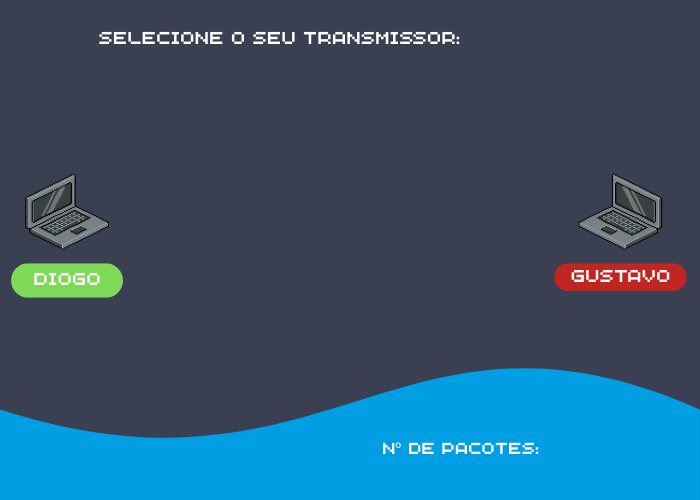
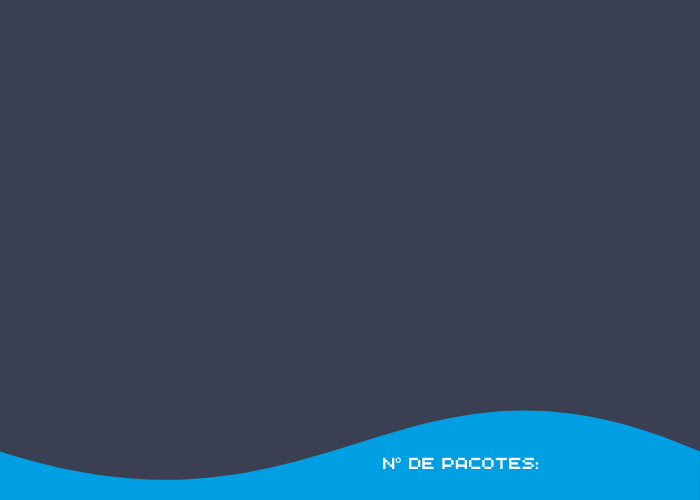
Carregando backbone

diff --git a/redes2_trabalho01_202411226/controller/TelaPrincipalController.java b/redes2_trabalho01_202411226/controller/TelaPrincipalController.java
@@ -61,8 +61,6 @@ public class TelaPrincipalController implements Initializable {
   public static volatile TelaPrincipalController controller;
 	private Host diogo;
 	private Host gustavo;
-  private Host hostTransmissor;
-  private Host hostReceptor;
   private int quantidadeNos;
 	private int versao;
 	private int numPacotes;
@@ -73,9 +71,8 @@ public class TelaPrincipalController implements Initializable {
   private ArrayList<Roteador> roteadores;
   private HashMap<String, Circle> nosCriados = new HashMap<>();
   private Set<String> arestasExistentes = new HashSet<>();
-  private final Map<String, double[]> posicaoCirculos = new HashMap<>();
-  private final Map<String, double[]> posicaoLabels = new HashMap<>();
-  private final Map<String, double[]> posicaoRoteadores = new HashMap<>();
+  private Map<String, double[]> posicaoCirculos = new HashMap<>();
+  private HashMap<String, Label> labels = new HashMap<>();
 
   /*
    * ***************************************************************
@@ -88,33 +85,6 @@ public class TelaPrincipalController implements Initializable {
 
 	@Override
 	public void initialize(URL url, ResourceBundle rb) {
-    // Preenchendo PosicaoCirculos
-    posicaoCirculos.put("A", new double[]{60.0, 126.0});
-    posicaoCirculos.put("B", new double[]{133.0, 52.0});
-    posicaoCirculos.put("C", new double[]{133.0, 189.0});
-    posicaoCirculos.put("D", new double[]{237.0, 126.0});
-    posicaoCirculos.put("E", new double[]{330.0, 52.0});
-    posicaoCirculos.put("F", new double[]{330.0, 189.0});
-    posicaoCirculos.put("G", new double[]{400.0, 126.0});
-
-    // Preenchendo PosicaoLabels
-    posicaoLabels.put("A", new double[]{54.0, 142.0});
-    posicaoLabels.put("B", new double[]{127.0, 20.0});
-    posicaoLabels.put("C", new double[]{127.0, 206.0});
-    posicaoLabels.put("D", new double[]{233.0, 96.0});
-    posicaoLabels.put("E", new double[]{324.0, 20.0});
-    posicaoLabels.put("F", new double[]{326.0, 206.0});
-    posicaoLabels.put("G", new double[]{395.0, 145.0});
-
-    // Preenchendo PosicaoRoteadores
-    posicaoRoteadores.put("A", new double[]{40.0, 105.0});
-    posicaoRoteadores.put("B", new double[]{113.0, 32.0});
-    posicaoRoteadores.put("C", new double[]{114.0, 168.0});
-    posicaoRoteadores.put("D", new double[]{217.0, 105.0});
-    posicaoRoteadores.put("E", new double[]{310.0, 32.0});
-    posicaoRoteadores.put("F", new double[]{310.0, 168.0});
-    posicaoRoteadores.put("G", new double[]{380.0, 105.0});
-
 		// Metodo que altera a cor do texto da comboBox
     cbTransmissor.setButtonCell(new ListCell<String>() {
       @Override
@@ -158,6 +128,7 @@ public class TelaPrincipalController implements Initializable {
     ObservableList<String> hosts = FXCollections.observableArrayList("Diogo", "Gustavo");
     cbTransmissor.setItems(hosts);
     cbTransmissor.getSelectionModel().selectFirst();
+    
     definirTransmissor(new ActionEvent());
 	}
 
@@ -214,7 +185,7 @@ public class TelaPrincipalController implements Initializable {
     if (pacotes.size() != 0) reiniciar();
 
     // Inicia a geracao de pacotes
-    gerarPacoteInicial((transmissor == 0) ? rotDiogo : rotGustavo);
+    // if (quantidadeNos != 0) gerarPacoteInicial((transmissor == 0) ? rotDiogo : rotGustavo);
 	} 
 
   private void gerarPacoteInicial(Roteador r) {
@@ -320,22 +291,33 @@ public class TelaPrincipalController implements Initializable {
 
   private void configurarSubrede() {
     try (BufferedReader br = new BufferedReader(new FileReader("backbone.txt"))) {
-      quantidadeNos = Integer.parseInt(br.readLine());
-      String linha;
+      String linha = br.readLine();
+      if (linha == null) return;
+
+      quantidadeNos = Integer.parseInt(linha.trim());
+      calcularPosicaoNos(quantidadeNos);
+      gerarLabels(quantidadeNos);
+
+      for (int i = 0; i < quantidadeNos; i++) {
+        String nome = gerarNome(i);
+        Circle c = criarNo(nome);
+        Roteador r = criarRoteador(c, nome);
+      }
+
+      calcularPosicaoLabels(quantidadeNos);
+      calcularPosicaoRoteadores(quantidadeNos);
 
       while ((linha = br.readLine()) != null) {
         String[] partes = linha.split(",");
+        if (partes.length < 3) continue;
 
-        String no1 = partes[0];
-        String no2 = partes[1];
+        String nome1 = partes[0];
+        String nome2 = partes[1];
         String peso = partes[2];
 
-        Circle c1 = criarNo(no1);
-        Circle c2 = criarNo(no2);
-
-        Roteador r1 = (!verificarRoteador(no1)) ? criarRoteador(c1, no1) : obterRoteador(no1);
-        Roteador r2 = (!verificarRoteador(no2)) ? criarRoteador(c2, no2) : obterRoteador(no2);
-        gerarAresta(r1, r2, peso);
+        Roteador r1 = obterRoteador(nome1);
+        Roteador r2 = obterRoteador(nome2);
+        if (r1 != null && r2 != null) gerarAresta(r1, r2, peso);
       }
     }
     catch (IOException e) {
@@ -343,39 +325,92 @@ public class TelaPrincipalController implements Initializable {
     }
   }
 
+  private void calcularPosicaoNos(int totalNos) {
+    double centroX = subrede.getPrefWidth() / 2;
+    double centroY = subrede.getPrefHeight() / 2;
+    double raio = Math.min(centroX, centroY) - 60;
+
+    for (int i = 0; i < totalNos; i++) {
+      String nome = gerarNome(i);
+
+      double angulo = (2 * Math.PI * i) / totalNos;
+      double x = centroX + raio * Math.cos(angulo);
+      double y = centroY + raio * Math.sin(angulo);
+
+      posicaoCirculos.put(nome, new double[]{x, y});
+    }
+  }
+
+  private String gerarNome(int i) {
+    return String.valueOf((char) ('A' + i));
+  }
+
+  private void calcularPosicaoLabels(int totalNos) {
+    for (int i = 0; i < totalNos; i++) {
+      String nome = gerarNome(i);
+      Roteador r = obterRoteador(nome);
+      Circle c = r.getNo();
+      Label l = labels.get(nome);
+      if (c == null || l == null) continue;
+
+      l.applyCss();
+      l.layout();
+
+      double largura = l.getLayoutBounds().getWidth();
+      double altura = l.getLayoutBounds().getHeight();
+
+      double x = c.getCenterX() - (largura / 2);
+      double y = c.getCenterY() - (altura / 2);
+
+      l.setLayoutX(x);
+      l.setLayoutY(y);
+
+      subrede.getChildren().add(l);
+    }
+  }
+
+  private void calcularPosicaoRoteadores(int totalNos) {
+    double larguraPacote = 41.0;
+    double alturaPacote = 98.0;
+
+    for (int i = 0; i < totalNos; i++) {
+      String nome = gerarNome(i);
+      Roteador r = obterRoteador(nome);
+      Circle c = r.getNo();
+      if (c == null) continue;
+
+      double x = c.getCenterX() - (larguraPacote / 2);
+      double y = c.getCenterY() - (alturaPacote / 2);
+      r.definirPosicao(x, y);
+      atualizarRoteador(r);
+    }
+  }
+
   private Circle criarNo(String nome) {
     if (nosCriados.containsKey(nome)) return nosCriados.get(nome);
 
-    double xCirculo, yCirculo, xLabel, yLabel;
-
-    if (posicaoCirculos.containsKey(nome) && posicaoLabels.containsKey(nome)) {
-      xCirculo = posicaoCirculos.get(nome)[0];
-      yCirculo = posicaoCirculos.get(nome)[1];
-      xLabel = posicaoLabels.get(nome)[0];
-      yLabel = posicaoLabels.get(nome)[1];
-    }
-    else {
-      xCirculo = Math.random() * (subrede.getPrefWidth() - 40) + 20;
-      yCirculo = Math.random() * (subrede.getPrefHeight() - 40) + 20;
-      xLabel = 0;
-      yLabel = 0;
-    }
+    double xCirculo = posicaoCirculos.get(nome)[0];
+    double yCirculo = posicaoCirculos.get(nome)[1];
 
     Circle circulo = new Circle(xCirculo, yCirculo, 15, Color.WHITE); 
     circulo.setStroke(Color.BLACK);
     circulo.setStrokeWidth(1);
     circulo.setStrokeType(StrokeType.OUTSIDE);
 
-    Label label = new Label(nome);
-    label.setTextFill(Color.WHITE);
-    label.setFont(Font.font("VCR OSD Mono", 15));
-    label.setLayoutX(xLabel);
-    label.setLayoutY(yLabel);
-
     nosCriados.put(nome, circulo);
-    subrede.getChildren().addAll(circulo, label);
+    subrede.getChildren().addAll(circulo);
 
     return circulo;
+  }
+
+  private void gerarLabels(int totalNos) {
+    for (int i = 0; i < totalNos; i++) {
+      String nome = gerarNome(i);
+      Label label = new Label(nome);
+      label.setTextFill(Color.web("#2d4180"));
+      label.setFont(Font.font("VCR OSD Mono", 15));
+      labels.put(nome, label);
+    }
   }
 
   private void gerarAresta(Roteador r1, Roteador r2, String peso) {
@@ -388,34 +423,16 @@ public class TelaPrincipalController implements Initializable {
 
       double meioX = (r1.getNo().getCenterX() + r2.getNo().getCenterX()) / 2;
       double meioY = (r1.getNo().getCenterY() + r2.getNo().getCenterY()) / 2;
-        
-      Label labelPeso = new Label(peso);
-      labelPeso.setLayoutX(meioX + 5);
-      labelPeso.setLayoutY(meioY - 10);
-      labelPeso.setFont(Font.font("VCR OSD Mono", 15));
-      labelPeso.setTextFill(Color.WHITE);
 
       arestasExistentes.add(idConexao);
-      subrede.getChildren().addAll(linha, labelPeso);
+      subrede.getChildren().add(linha);
       r1.adicionarVizinho(r2);
       r2.adicionarVizinho(r1);
     } 
   }
 
-  private boolean verificarRoteador(String nome) {
-    for (Roteador r : roteadores) {
-      if (r.getNome().equals(nome)) {
-        return true;
-      }
-    }
-
-    return false;
-  }
-
   private Roteador criarRoteador(Circle no, String nome) {
     Roteador r = new Roteador(no, nome);
-    double[] posicoes = posicaoRoteadores.get(nome);
-    r.definirPosicao(posicoes[0], posicoes[1]);
     roteadores.add(r);
 
     return r;
@@ -429,6 +446,15 @@ public class TelaPrincipalController implements Initializable {
     }
 
     return null;
+  }
+
+  private void atualizarRoteador(Roteador r) {
+    for (int i = 0; i < roteadores.size(); i++) {
+      if (r.getNome().equals(roteadores.get(i).getNome())) {
+        roteadores.set(i, r);
+        break;
+      }
+    }
   }
 
   public void definirTempoDeVida(int tempoDeVida) {

diff --git a/redes2_trabalho01_202411226/model/Roteador.java b/redes2_trabalho01_202411226/model/Roteador.java
@@ -2,7 +2,7 @@
 * Autor............: Diogo Oliveira de Sousa
 * Matricula........: 202411226
 * Inicio...........: 15/03/2026
-* Ultima alteracao.: 19/03/2026
+* Ultima alteracao.: 20/03/2026
 * Nome.............: Roteador
 * Funcao...........: Classe que gerencia as operacoes de cada roteador.
                      
@@ -23,6 +23,7 @@ public class Roteador {
   private boolean ocupado;
   private boolean intermediario;
   private Host hostProximo;
+  private boolean destino;
 
   /*
    * ***************************************************************
@@ -50,10 +51,11 @@ public class Roteador {
   }
 
   public void alterarVizinho(Roteador v) {
-    for (Roteador r : vizinhos) {
+    for (int i = 0; i < vizinhos.size(); i++) {
+      Roteador r = vizinhos.get(i);
+
       if (r.getNome().equals(v.getNome())) {
-        vizinhos.remove(r);
-        vizinhos.add(v);
+        vizinhos.set(i, v);
         break;
       }
     }

diff --git a/redes2_trabalho01_202411226/Principal.java b/redes2_trabalho01_202411226/Principal.java
@@ -2,7 +2,7 @@
 * Autor............: Diogo Oliveira de Sousa
 * Matricula........: 202411226
 * Inicio...........: 14/03/2026
-* Ultima alteracao.: 19/03/2026
+* Ultima alteracao.: 20/03/2026
 * Nome.............: Inundacao Na Rede (Principal)
 * Funcao...........: Este trabalho tem como objetivo simular quatro diferentes formas de funcionamento do algoritmo de inundacao
                      para roteamento de pacotes dentro de uma rede, incluindo uma opcao otimizada.

diff --git a/redes2_trabalho01_202411226/controller/TelaMenuController.java b/redes2_trabalho01_202411226/controller/TelaMenuController.java
@@ -118,6 +118,7 @@ public class TelaMenuController implements Initializable {
 		TelaPrincipalController p = loader.getController();
 		int versao = cbVersao.getSelectionModel().getSelectedIndex();
 		p.configurar(versao);
+		if (versao > 1) p.definirTempoDeVida(0);
 
     // Carrega a cena (tela) dentro da mesma janela
 		Stage stage = (Stage) ((Node) event.getSource()).getScene().getWindow();
